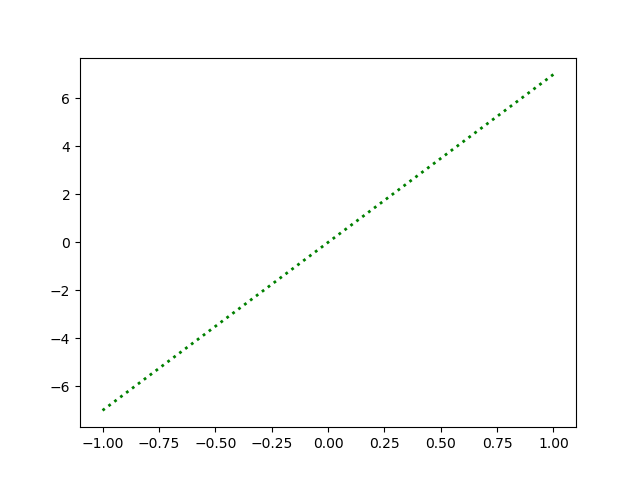
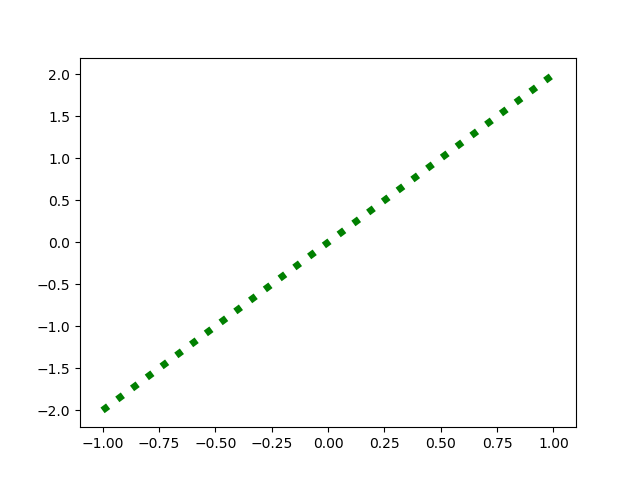
first commit

diff --git a/example.py b/example.py
@@ -2,7 +2,7 @@ import matplotlib.pyplot as plt
 import numpy as np
 
 x = np.linspace(-1, 1, 50)
-y = 7*x
+y = 2*x
 
-plt.plot(x, y,'g:',linewidth=2)
+plt.plot(x, y,'g:',linewidth=5)
 plt.savefig('chart.png')

diff --git a/README.md b/README.md
@@ -1,4 +1,4 @@
-# Line Chart Linda 
+# Line Chart Kelly 
 
 Example for my book (matplotlib, python)
 
